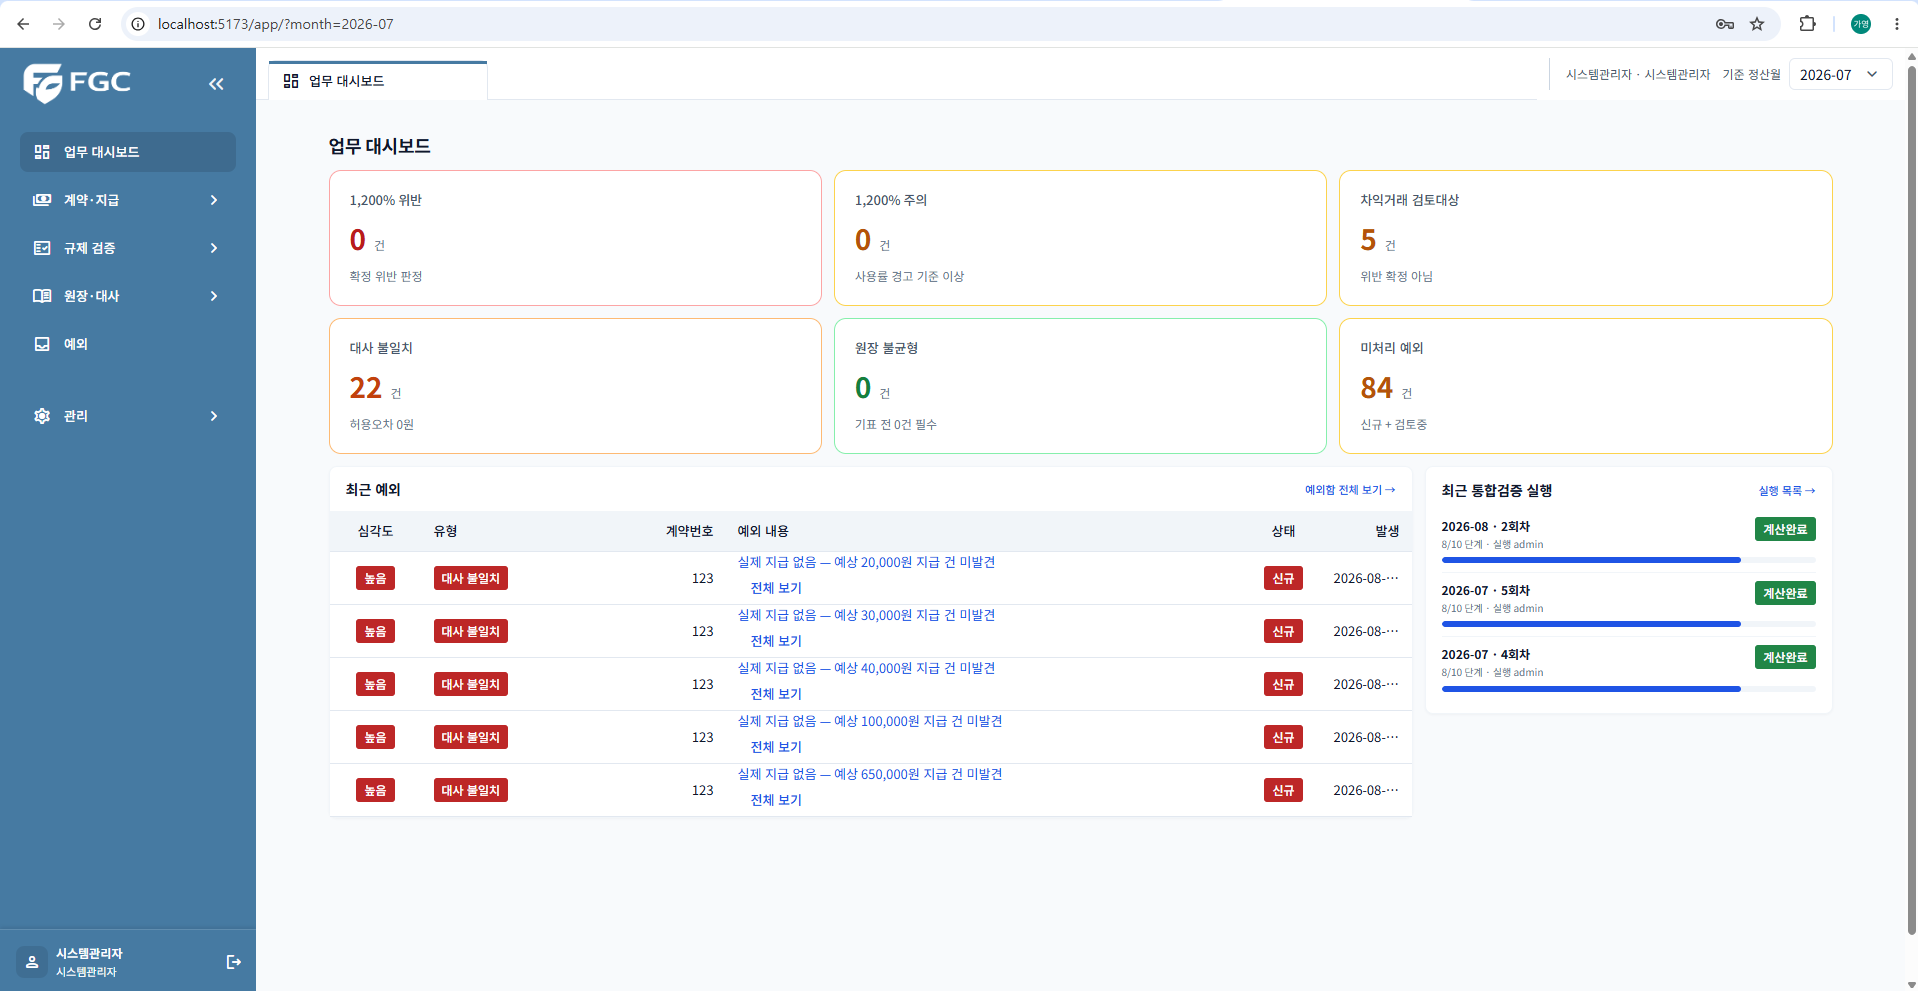
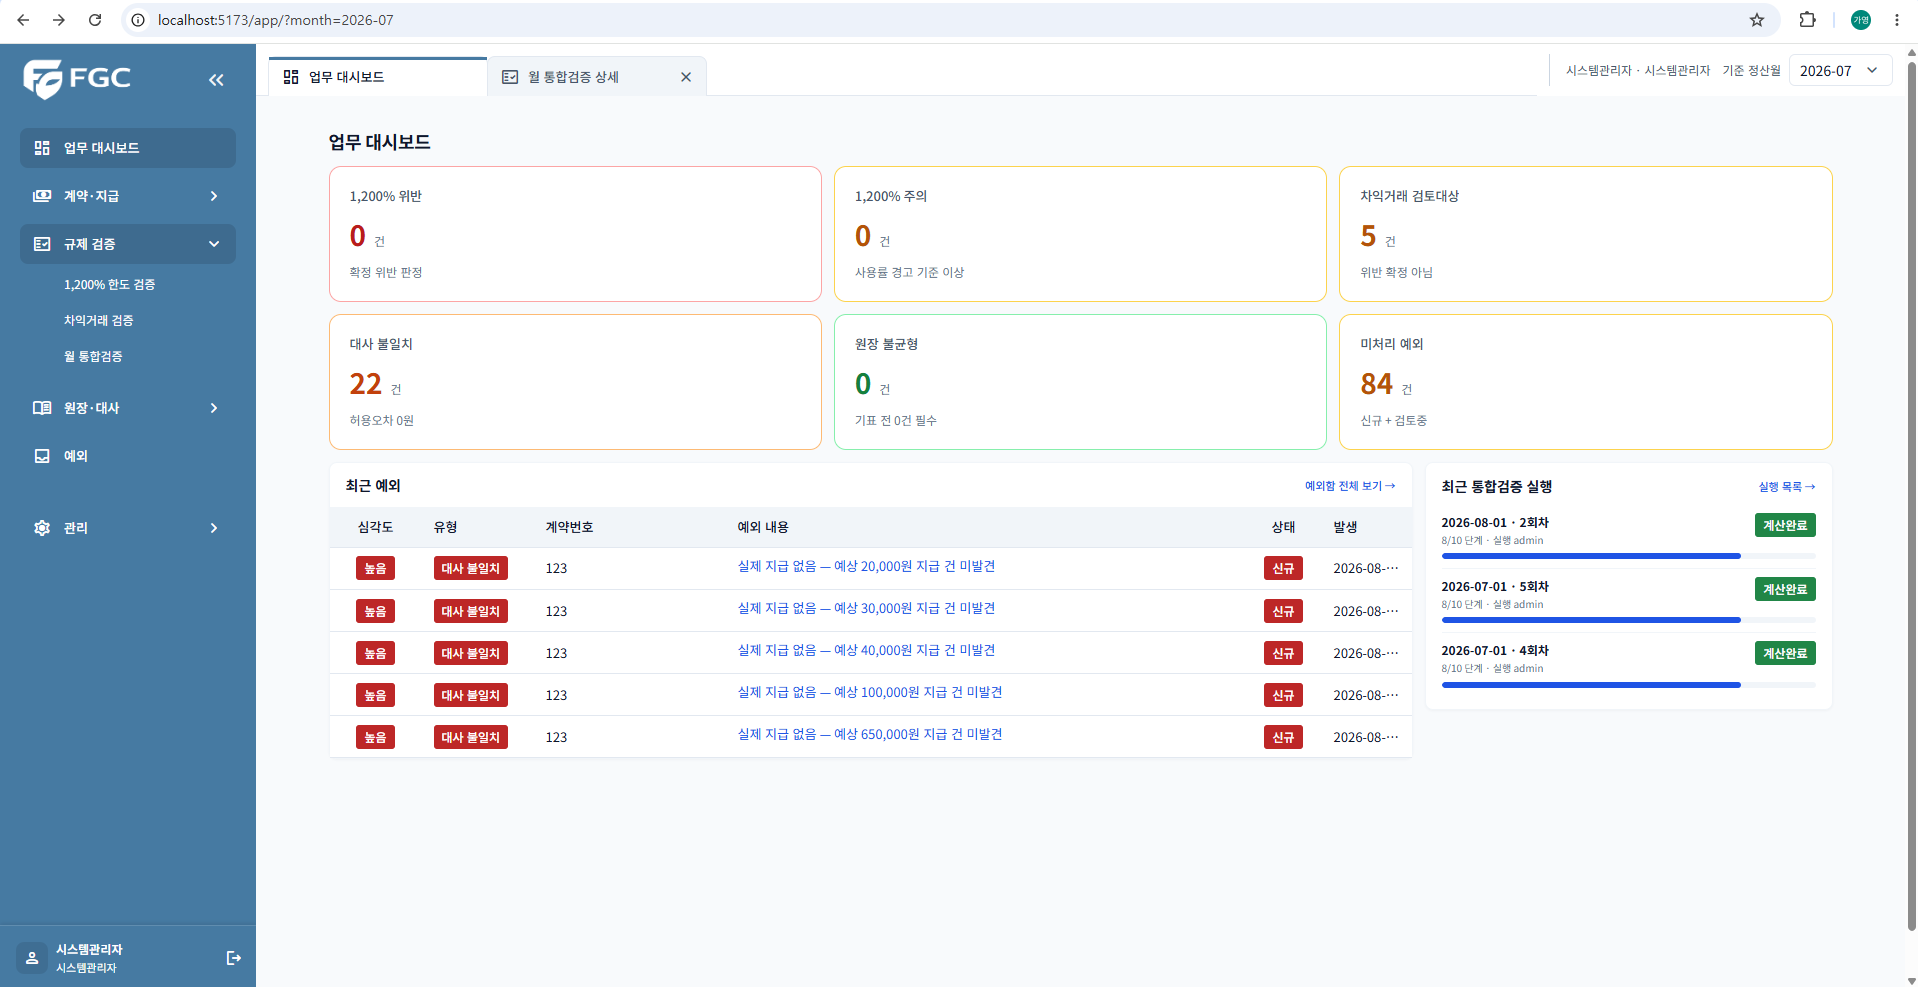
fix(frontend): 대시보드 전체 보기·열 정렬·실행 제목을 기존 화면에 맞춤 (#405)

diff --git a/frontend/src/features/dashboard/DashboardPage.tsx b/frontend/src/features/dashboard/DashboardPage.tsx
@@ -1,6 +1,7 @@
 import { useQuery } from '@tanstack/react-query'
 import type { CSSProperties } from 'react'
 import { Link, useOutletContext } from 'react-router'
+import { CellDisclosure } from '../../components/CellDisclosure'
 import { DataTable } from '../../components/DataTable'
 import type { TableColumn } from '../../components/DataTable'
 import { KpiCard } from '../../components/KpiCard'
@@ -41,15 +42,17 @@ function DashboardContent({ month }: { month: string }) {
       label: '유형',
       render: (e) => <StatusBadge tone={exceptionTypeTone(e.exceptionType)}>{e.exceptionTypeLabel ?? '-'}</StatusBadge>,
     },
-    { key: 'contractNo', label: '계약번호', align: 'number', render: (e) => e.contractNo ?? '-' },
+    { key: 'contractNo', label: '계약번호', cellClassName: 'tabular-nums', render: (e) => e.contractNo ?? '-' },
     {
       key: 'title',
       label: '예외 내용',
-      expandable: true,
+      cellClassName: 'dashboard-disclosure-cell',
       render: (e) => (
-        <Link to={href('/exceptions', { contractNo: e.contractNo ?? '' })} title={e.title}>
-          {e.title ?? '-'}
-        </Link>
+        <CellDisclosure
+          singleLine
+          preview={<Link to={href('/exceptions', { contractNo: e.contractNo ?? '' })}>{e.title ?? '-'}</Link>}
+          full={e.title ?? '-'}
+        />
       ),
     },
     {
@@ -57,19 +60,55 @@ function DashboardContent({ month }: { month: string }) {
       label: '상태',
       render: (e) => <StatusBadge tone={exceptionStatusTone(e.status)}>{e.statusLabel ?? '-'}</StatusBadge>,
     },
-    { key: 'createdAt', label: '발생', align: 'number', render: (e) => dateTime(e.createdAt) },
+    { key: 'createdAt', label: '발생', cellClassName: 'tabular-nums', render: (e) => dateTime(e.createdAt) },
   ]
 
   const kpis =
     data &&
     ([
-      { label: '1,200% 위반', value: data.capViolation, footer: '확정 위반 판정', tone: 'error', to: href('/cap-checks', { status: 'VIOLATION' }) },
-      { label: '1,200% 주의', value: data.capWarning, footer: '사용률 경고 기준 이상', tone: 'warning', to: href('/cap-checks', { status: 'WARNING' }) },
-      { label: '차익거래 검토대상', value: data.arbitrageCandidate, footer: '위반 확정 아님', tone: 'warning', to: href('/arbitrage-checks', { status: 'CANDIDATE' }) },
-      { label: '대사 불일치', value: data.reconMismatch, footer: '허용오차 0원', tone: 'risk', to: href('/reconciliations', { onlyMismatch: 'true' }) },
-      { label: '원장 불균형', value: data.journalImbalance, footer: '기표 전 0건 필수', tone: data.journalImbalance === 0 ? 'success' : 'error', to: href('/journals', { imbalanceOnly: 'true' }) },
+      {
+        label: '1,200% 위반',
+        value: data.capViolation,
+        footer: '확정 위반 판정',
+        tone: 'error',
+        to: href('/cap-checks', { status: 'VIOLATION' }),
+      },
+      {
+        label: '1,200% 주의',
+        value: data.capWarning,
+        footer: '사용률 경고 기준 이상',
+        tone: 'warning',
+        to: href('/cap-checks', { status: 'WARNING' }),
+      },
+      {
+        label: '차익거래 검토대상',
+        value: data.arbitrageCandidate,
+        footer: '위반 확정 아님',
+        tone: 'warning',
+        to: href('/arbitrage-checks', { status: 'CANDIDATE' }),
+      },
+      {
+        label: '대사 불일치',
+        value: data.reconMismatch,
+        footer: '허용오차 0원',
+        tone: 'risk',
+        to: href('/reconciliations', { onlyMismatch: 'true' }),
+      },
+      {
+        label: '원장 불균형',
+        value: data.journalImbalance,
+        footer: '기표 전 0건 필수',
+        tone: data.journalImbalance === 0 ? 'success' : 'error',
+        to: href('/journals', { imbalanceOnly: 'true' }),
+      },
       // OPEN 은 DB 상태값이 아니라 EXCP-W01 과 공유하는 화면 묶음 필터(NEW + IN_REVIEW)다.
-      { label: '미처리 예외', value: data.openException, footer: '신규 + 검토중', tone: 'warning', to: href('/exceptions', { status: 'OPEN' }) },
+      {
+        label: '미처리 예외',
+        value: data.openException,
+        footer: '신규 + 검토중',
+        tone: 'warning',
+        to: href('/exceptions', { status: 'OPEN' }),
+      },
     ] as const)
 
   return (
@@ -94,7 +133,12 @@ function DashboardContent({ month }: { month: string }) {
         <>
           <section className="kpi-grid" aria-label="주요 검증 지표">
             {kpis?.map((kpi) => (
-              <Link key={kpi.label} to={kpi.to} className="kpi-card-link" aria-label={`${kpi.label} ${int(kpi.value ?? 0)}건`}>
+              <Link
+                key={kpi.label}
+                to={kpi.to}
+                className="kpi-card-link"
+                aria-label={`${kpi.label} ${int(kpi.value ?? 0)}건`}
+              >
                 <KpiCard
                   label={kpi.label}
                   value={int(kpi.value ?? 0)}
@@ -158,7 +202,7 @@ function RunRow({ run, to }: { run: RecentRun; to: string }) {
   const progress = Math.max(0, Math.min(100, step * 10))
   return (
     <Link className="run-row" to={to}>
-      <strong className="run-title">{`${(run.validationMonth ?? '').slice(0, 7)} · ${run.runNo}회차`}</strong>
+      <strong className="run-title">{`${run.validationMonth ?? ''} · ${run.runNo}회차`}</strong>
       <span className="run-meta">{`${step}/10 단계 · 실행 ${run.triggeredBy ?? '-'}`}</span>
       <StatusBadge tone={runStatusTone(run.status)}>{run.statusLabel ?? '-'}</StatusBadge>
       <span

diff --git a/frontend/src/components/CellDisclosure.tsx b/frontend/src/components/CellDisclosure.tsx
@@ -1,0 +1,51 @@
+import { useEffect, useRef } from 'react'
+import type { ReactNode } from 'react'
+
+/**
+ * 표 셀의 "전체 보기" — 기존 화면(table-cell-disclosure)처럼 실제로 잘릴 때만 토글을 드러낸다.
+ * preview 는 칸 안에 보이는 내용, full 은 펼쳤을 때 보이는 내용이다.
+ */
+export function CellDisclosure({
+  preview,
+  full = preview,
+  singleLine = false,
+}: {
+  preview: ReactNode
+  full?: ReactNode
+  singleLine?: boolean
+}) {
+  const container = useRef<HTMLDivElement>(null)
+  useEffect(() => {
+    const node = container.current
+    if (!node) return
+    const previewNode = node.querySelector<HTMLElement>('.table-cell-preview')!
+    const details = node.querySelector<HTMLDetailsElement>('details')!
+    const sync = () => {
+      if (!previewNode.clientWidth) return
+      details.hidden =
+        previewNode.scrollWidth <= previewNode.clientWidth + 1 &&
+        previewNode.scrollHeight <= previewNode.clientHeight + 1
+      if (details.hidden) details.open = false
+    }
+    const observer = typeof ResizeObserver === 'undefined' ? null : new ResizeObserver(sync)
+    observer?.observe(previewNode)
+    sync()
+    void document.fonts?.ready.then(sync)
+    return () => observer?.disconnect()
+  }, [])
+  return (
+    <div className="table-cell-disclosure" ref={container}>
+      <span className={`table-cell-preview ${singleLine ? 'is-single-line' : ''}`}>{preview}</span>
+      <details className="table-cell-details" hidden>
+        <summary>
+          <span className="table-cell-more">전체 보기</span>
+          <span className="table-cell-less">접기</span>
+          <span className="material-symbols-rounded table-cell-chevron" aria-hidden="true">
+            expand_more
+          </span>
+        </summary>
+        <p className="table-cell-full">{full}</p>
+      </details>
+    </div>
+  )
+}

diff --git a/frontend/src/features/dashboard/dashboard.test.tsx b/frontend/src/features/dashboard/dashboard.test.tsx
@@ -86,7 +86,10 @@ function renderDashboard(path = '/app/') {
   return { router, actions: userEvent.setup() }
 }
 const summaryCalls = () =>
-  vi.mocked(apiClient.request).mock.calls.map(([path]) => path).filter((path) => path.includes('/dashboard/summary'))
+  vi
+    .mocked(apiClient.request)
+    .mock.calls.map(([path]) => path)
+    .filter((path) => path.includes('/dashboard/summary'))
 
 describe('DASH-W01 업무 대시보드', () => {
   it('KPI 6종과 최근 예외·실행을 형식 규칙에 맞게 보여 준다', async () => {
@@ -99,7 +102,7 @@ describe('DASH-W01 업무 대시보드', () => {
     expect(within(table).getByText('C-0001')).toBeInTheDocument()
     // UTC 15:30 은 Asia/Seoul 로 다음 날 00:30 이다.
     expect(within(table).getByText('2026-07-11 00:30')).toBeInTheDocument()
-    const run = screen.getByRole('link', { name: /2026-07 · 2회차/ })
+    const run = screen.getByRole('link', { name: /2026-07-01 · 2회차/ })
     expect(within(run).getByRole('progressbar', { name: '검증 진행률' })).toHaveAttribute('aria-valuenow', '40')
     expect(run).toHaveTextContent('4/10 단계 · 실행 settle01')
   })
@@ -131,7 +134,7 @@ describe('DASH-W01 업무 대시보드', () => {
       'href',
       '/app/exceptions?contractNo=C-0001&month=2026-07',
     )
-    expect(screen.getByRole('link', { name: /2026-07 · 2회차/ })).toHaveAttribute(
+    expect(screen.getByRole('link', { name: /2026-07-01 · 2회차/ })).toHaveAttribute(
       'href',
       '/app/validation-runs/77?month=2026-07',
     )

diff --git a/frontend/docs/405/README.md b/frontend/docs/405/README.md
@@ -14,9 +14,8 @@
 같은 항목: KPI 카드 6종(제목·건수·보조 문구·색), 최근 예외 5행(심각도·유형·계약번호·내용·상태), 최근 통합검증 실행 3건(진행률 막대), 두 링크("예외함 전체 보기", "실행 목록").
 
 캡처에서 보이는 차이:
-- 최근 예외의 "예외 내용" 셀에 React는 "전체 보기" 토글이 항상 보인다. 기존 화면은 글이 잘릴 때만 표시한다.
-- 계약번호 열 정렬이 React는 오른쪽, 기존은 왼쪽이다.
-- 통합검증 실행 제목이 React는 `2026-08 · 2회차`, 기존은 `2026-08-01 · 2회차`다.
+- 최근 예외의 "예외 내용" 전체 보기 토글(글이 잘릴 때만 표시), 계약번호·발생 열 정렬(왼쪽), 통합검증 실행 제목(`2026-08-01 · 2회차`)은 기존 화면에 맞췄다.
 - 대시보드 탭의 닫기(×) 버튼은 기존 화면에만 보이고, 페이지 좌우 여백·사용자 표시 문구는 공통 셸(#403) 차이다.
+- React 캡처는 다른 탭(월 통합검증 상세)이 열려 있고 사이드바 메뉴가 펼쳐진 상태다.
 
 검증: 프런트엔드 Vitest(대시보드 7개 포함), `tsc`, `eslint`가 통과했다.
